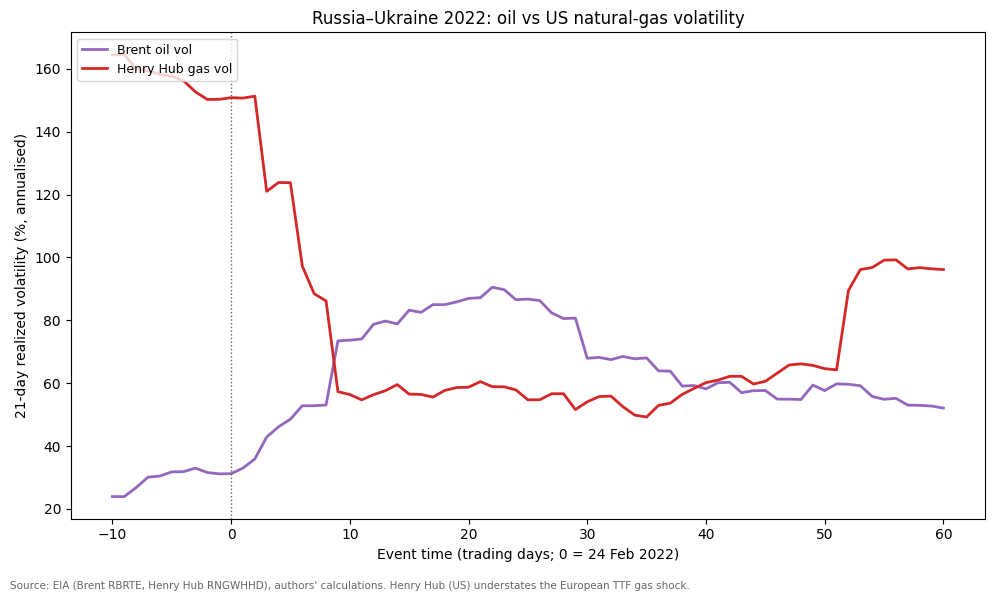
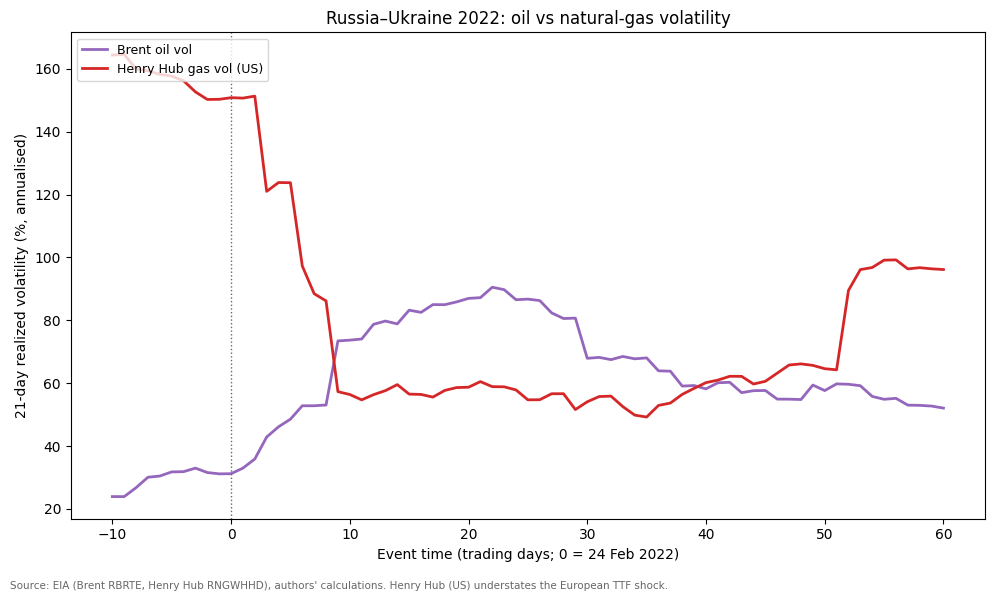
Wire TTF (European gas) and VIX manual-download support
08_gas_context.py: load European TTF from data/raw/raw_ttf.csv (investing.com
format) when present; adds TTF columns to table8 and a TTF line to the Russia
figure. VIX already supported via 01's manual-file path (raw_vix.csv). Both
degrade gracefully when the file is absent.

Changed region(s): [[0.3119, 0.0, 0.7485, 0.0599], [0.6237, 0.9584, 0.6861, 0.9884], [0.2495, 0.0899, 0.2807, 0.1198]]

diff --git a/code/08_gas_context.py b/code/08_gas_context.py
@@ -81,6 +81,20 @@ def realized_vol(price: pd.Series) -> pd.Series:
         * np.sqrt(config.TRADING_DAYS_PER_YEAR) * 100.0
 
 
+def load_ttf() -> pd.Series | None:
+    """European TTF gas, hand-downloaded from investing.com (Dutch TTF Natural
+    Gas Futures) to data/raw/raw_ttf.csv. None if not present."""
+    path = config.DATA_RAW / "raw_ttf.csv"
+    if not path.exists():
+        return None
+    m = pd.read_csv(path, encoding="utf-8-sig")
+    m.columns = [c.strip().lstrip("").lower() for c in m.columns]
+    dcol = next(c for c in m.columns if c in ("date", "period"))
+    ccol = next(c for c in m.columns if c in ("price", "close", "adj close", "value"))
+    vals = pd.to_numeric(m[ccol].astype(str).str.replace(",", ""), errors="coerce")
+    return pd.Series(vals.values, index=pd.to_datetime(m[dcol], errors="coerce")).dropna().sort_index()
+
+
 def window(vol: pd.Series, trigger: str) -> pd.DataFrame:
     cal = vol.dropna().index
     trig = pd.Timestamp(trigger)
@@ -97,6 +111,10 @@ def window(vol: pd.Series, trigger: str) -> pd.DataFrame:
 def main():
     gas = fetch_gas()
     gas_vol = realized_vol(gas)
+    ttf = load_ttf()
+    ttf_vol = realized_vol(ttf) if ttf is not None else None
+    if ttf is not None:
+        print(f"  TTF (European gas) loaded: {len(ttf)} obs to {ttf.index.max().date()}")
     panel = pd.read_csv(config.DATA_PROCESSED / "processed_daily_panel.csv",
                         parse_dates=["date"]).set_index("date")
     oil_vol = panel["brent_vol"]
@@ -107,10 +125,16 @@ def main():
         ow, gw = window(oil_vol, trig["date"]), window(gas_vol, trig["date"])
         if ow.empty or gw.empty:
             continue
-        rows.append({"episode": key,
-                     "oil_peak_vol_%": round(ow["vol"].max(), 1),
-                     "gas_peak_vol_%": round(gw["vol"].max(), 1),
-                     "gas_over_oil": round(gw["vol"].max() / ow["vol"].max(), 2)})
+        row = {"episode": key,
+               "oil_peak_vol_%": round(ow["vol"].max(), 1),
+               "gas_peak_vol_%": round(gw["vol"].max(), 1),
+               "gas_over_oil": round(gw["vol"].max() / ow["vol"].max(), 2)}
+        if ttf_vol is not None:
+            tw = window(ttf_vol, trig["date"])
+            if not tw.empty:
+                row["ttf_peak_vol_%"] = round(tw["vol"].max(), 1)
+                row["ttf_over_oil"] = round(tw["vol"].max() / ow["vol"].max(), 2)
+        rows.append(row)
     table = pd.DataFrame(rows)
     config.TABLES.mkdir(parents=True, exist_ok=True)
     table.to_csv(config.TABLES / "table8_gas_vs_oil.csv", index=False)
@@ -123,15 +147,22 @@ def main():
     gw = window(gas_vol, config.TRIGGERS["russia_ukraine_2022"]["date"])
     fig, ax = plt.subplots(figsize=(10, 6))
     ax.plot(ow["event_day"], ow["vol"], color="#9467bd", lw=2.0, label="Brent oil vol")
-    ax.plot(gw["event_day"], gw["vol"], color="#d62728", lw=2.0, label="Henry Hub gas vol")
+    ax.plot(gw["event_day"], gw["vol"], color="#d62728", lw=2.0, label="Henry Hub gas vol (US)")
+    if ttf_vol is not None:
+        tw = window(ttf_vol, config.TRIGGERS["russia_ukraine_2022"]["date"])
+        if not tw.empty:
+            ax.plot(tw["event_day"], tw["vol"], color="#8c1a11", lw=2.0, ls="--",
+                    label="TTF gas vol (Europe)")
     ax.axvline(0, color="0.4", lw=1.0, ls=":")
     ax.set_xlabel("Event time (trading days; 0 = 24 Feb 2022)")
     ax.set_ylabel("21-day realized volatility (%, annualised)")
-    ax.set_title("Russia–Ukraine 2022: oil vs US natural-gas volatility")
+    ax.set_title("Russia–Ukraine 2022: oil vs natural-gas volatility")
     ax.legend(loc="upper left", fontsize=9)
-    fig.text(0.01, 0.01, "Source: EIA (Brent RBRTE, Henry Hub RNGWHHD), authors' "
-             "calculations. Henry Hub (US) understates the European TTF gas shock.",
-             fontsize=7.5, color="0.4")
+    note = ("Source: EIA (Brent RBRTE, Henry Hub RNGWHHD)"
+            + (", investing.com (Dutch TTF)" if ttf_vol is not None else "")
+            + ", authors' calculations."
+            + ("" if ttf_vol is not None else " Henry Hub (US) understates the European TTF shock."))
+    fig.text(0.01, 0.01, note, fontsize=7.5, color="0.4")
     fig.tight_layout(rect=(0, 0.03, 1, 1))
     config.FIGURES.mkdir(parents=True, exist_ok=True)
     for ext in ("png", "pdf"):
